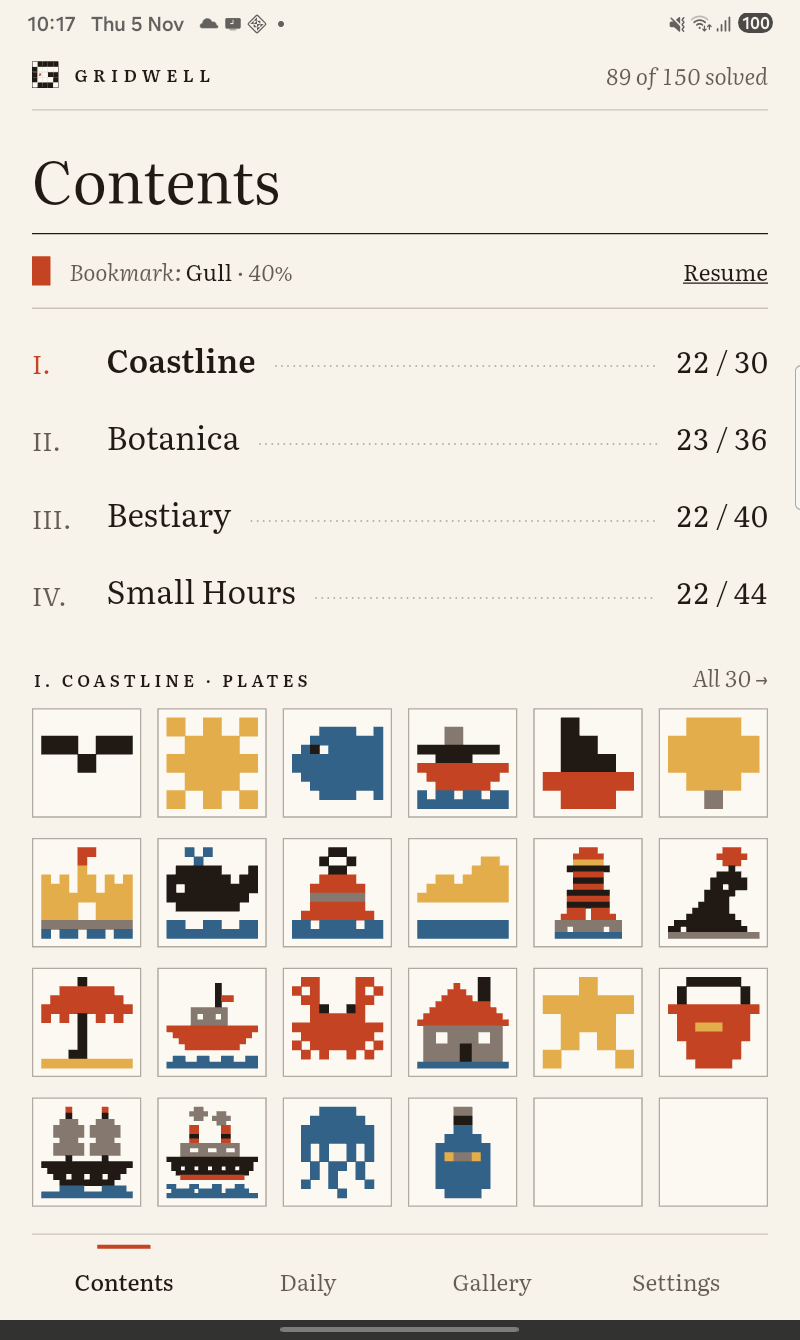
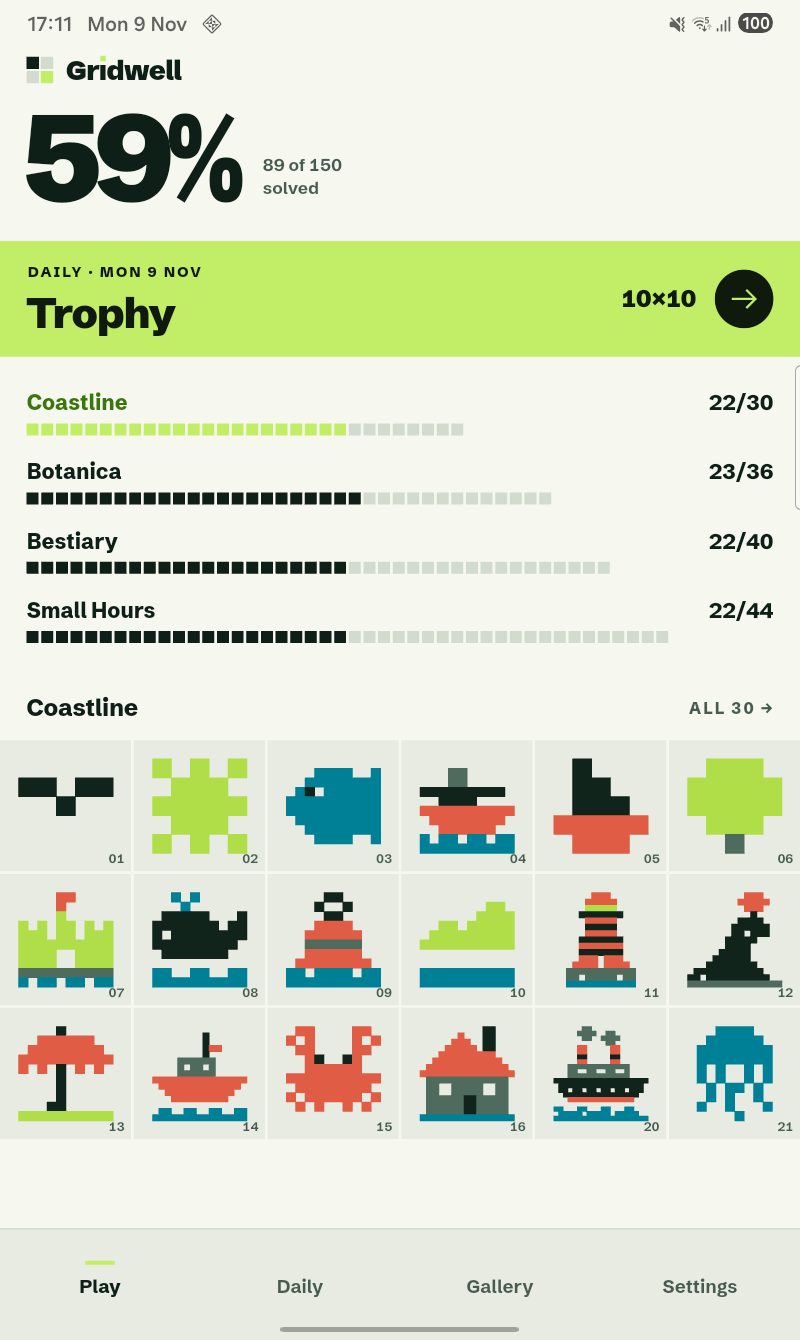
Retake phone and tablet screenshots in the Tally design, seed past dailies
- screenshots/ and tablet_screenshots/: all twelve shots retaken in the light
  theme on the A24 and the Tab A9 with a seeded test account.
- Dev seeder: GW_SEED_DAILIES marks past dailies solved on their day, on the
  device only (never queued for the leaderboard), so the streak and calendar
  look used.
- Gallery names shrink a little so no word is ever broken across lines.
- Stat labels use proportional figures ("best 0:37", not "best 0 : 37").

diff --git a/lib/state/dev_seeder.dart b/lib/state/dev_seeder.dart
@@ -20,6 +20,9 @@ import 'providers.dart';
 ///  * It waits for a signed-in, non-guest account and seeds nothing without one.
 ///  * It runs once per install. `GW_SEED_FORCE=true` runs it again.
 ///  * `GW_SEED_PLATES` changes how many plates each collection gets (default 8).
+///  * `GW_SEED_DAILIES=true` also marks every past daily since the shared start
+///    date as solved on its day, so the streak and calendar look used. These
+///    stay on the device: they are never queued for the leaderboard.
 ///
 /// For screenshots without ads, also give the account premium:
 /// `dotnet run grant-premium-to-user.cs -- grant <email>` in the API repo.
@@ -31,12 +34,18 @@ class DevDataSeeder {
   static const _requested = bool.fromEnvironment('GW_SEED');
   static const _force = bool.fromEnvironment('GW_SEED_FORCE');
   static const _plates = int.fromEnvironment('GW_SEED_PLATES', defaultValue: 8);
+  static const _dailies = bool.fromEnvironment('GW_SEED_DAILIES');
   static const _doneKey = 'debug_dev_data_seeded_v1';
+  static const _dailiesDoneKey = 'debug_dev_dailies_seeded_v1';
 
   Future<void> runIfRequested() async {
     if (!kDebugMode || !_requested) return;
     final settings = _ref.read(settingsRepositoryProvider);
-    if (!_force && (await settings.all())[_doneKey] == 'true') return;
+    final done = await settings.all();
+    if (_dailies && (_force || done[_dailiesDoneKey] != 'true')) {
+      await _seedDailies();
+    }
+    if (!_force && done[_doneKey] == 'true') return;
 
     // The cached sign-in can resolve after the first frame: wait for it.
     final auth = _ref.read(authServiceProvider);
@@ -72,6 +81,44 @@ class DevDataSeeder {
     }
     await _ref.read(onlineSessionProvider).uploadAllProgress();
     debugPrint('DevDataSeeder: seeded $solved plates');
+  }
+}
+
+extension on DevDataSeeder {
+  /// Every past daily, solved on its own day with a believable time. Local
+  /// only: the daily repository is the device's own record, and nothing here
+  /// touches the outbox, so no late time reaches a leaderboard.
+  Future<void> _seedDailies() async {
+    final auth = _ref.read(authServiceProvider);
+    for (var i = 0; auth.current.isGuest; i++) {
+      if (i == 30) {
+        debugPrint('DevDataSeeder: no signed-in account, skipping dailies');
+        return;
+      }
+      await Future<void>.delayed(const Duration(seconds: 1));
+    }
+    final now = DateTime.now();
+    await _ref.read(settingsRepositoryProvider).put(DevDataSeeder._dailiesDoneKey, 'true', now);
+    final start = DateTime.tryParse(_ref.read(puzzleSetProvider).dailyStartDate);
+    if (start == null) return;
+    final random = Random(20261109);
+    final repo = _ref.read(dailyRepositoryProvider);
+    var count = 0;
+    for (var d = DateTime(start.year, start.month, start.day);
+        d.isBefore(DateTime(now.year, now.month, now.day));
+        d = DateTime(d.year, d.month, d.day + 1)) {
+      final date = localDateString(d);
+      final puzzle = dailyFor(_ref, date);
+      if (puzzle == null) continue;
+      await repo.recordSolve(
+        date: date,
+        puzzleId: puzzle.id,
+        timeMs: (puzzle.width * puzzle.height * (900 + random.nextInt(900))).clamp(20000, 3600000),
+        onDay: true,
+      );
+      count++;
+    }
+    debugPrint('DevDataSeeder: seeded $count dailies');
   }
 }
 

diff --git a/lib/ui/screens/gallery_screen.dart b/lib/ui/screens/gallery_screen.dart
@@ -135,11 +135,34 @@ class _Picture extends StatelessWidget {
           // Big pictures fill the tile; small ones keep a margin of tile.
           PlateThumb(puzzle: puzzle, state: PlateState.solved, background: p.tile, inset: n >= 15 ? 0 : 0.125),
           const SizedBox(height: 8),
-          Row(children: [
-            Expanded(child: Text(puzzle.name, maxLines: 1, overflow: TextOverflow.ellipsis, style: style)),
+          // Long names wrap to a second line rather than lose their ending.
+          Row(crossAxisAlignment: CrossAxisAlignment.start, children: [
+            Expanded(
+              child: LayoutBuilder(builder: (context, c) {
+                // Shrink (to 75% at most) until the longest word fits, so a
+                // word is never broken across lines; then wrap between words.
+                final scaler = MediaQuery.textScalerOf(context);
+                final widest = puzzle.name
+                    .split(' ')
+                    .map((w) => (TextPainter(
+                          text: TextSpan(text: w, style: style),
+                          textDirection: TextDirection.ltr,
+                          textScaler: scaler,
+                        )..layout())
+                            .width)
+                    .fold<double>(0, (a, b) => a > b ? a : b);
+                final scale = widest <= c.maxWidth ? 1.0 : (c.maxWidth / widest).clamp(0.75, 1.0);
+                return Text(
+                  puzzle.name,
+                  maxLines: 2,
+                  overflow: TextOverflow.ellipsis,
+                  style: style.copyWith(height: 1.15, fontSize: style.fontSize! * scale - (scale < 1 ? 0.3 : 0)),
+                );
+              }),
+            ),
             if (timeMs != null) ...[
               const SizedBox(width: 6),
-              Text(formatClock(timeMs!), style: style.copyWith(color: p.ink2)),
+              Text(formatClock(timeMs!), style: style.copyWith(color: p.ink2, height: 1.15)),
             ],
           ]),
         ]),

diff --git a/lib/ui/widgets/tally.dart b/lib/ui/widgets/tally.dart
@@ -278,7 +278,7 @@ class BigStat extends StatelessWidget {
           SizedBox(width: gap),
           Padding(
             padding: EdgeInsets.only(bottom: (style.fontSize ?? 60) * 0.06),
-            child: trailing ?? Text(label!, maxLines: 3, style: TallyType.tabular(TallyType.label(labelColor ?? p.ink2)).copyWith(height: 1.3)),
+            child: trailing ?? Text(label!, maxLines: 3, style: TallyType.label(labelColor ?? p.ink2).copyWith(height: 1.3)),
           ),
         ],
       ],
